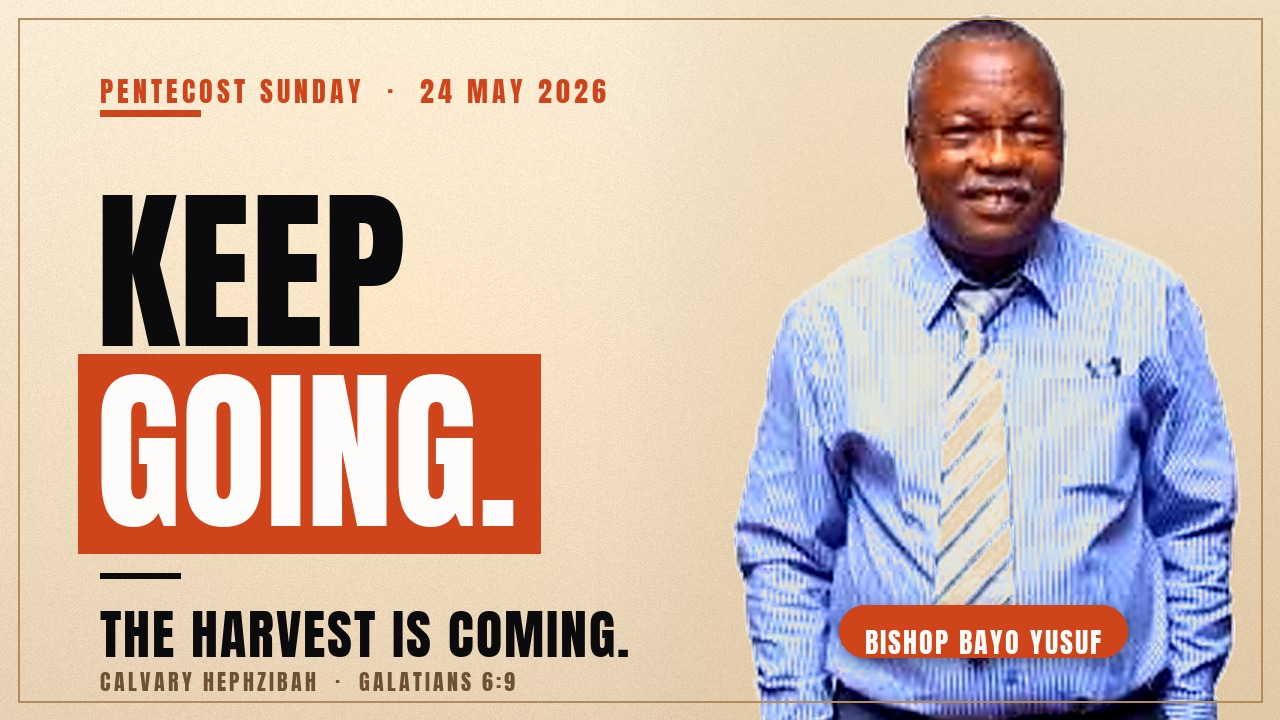
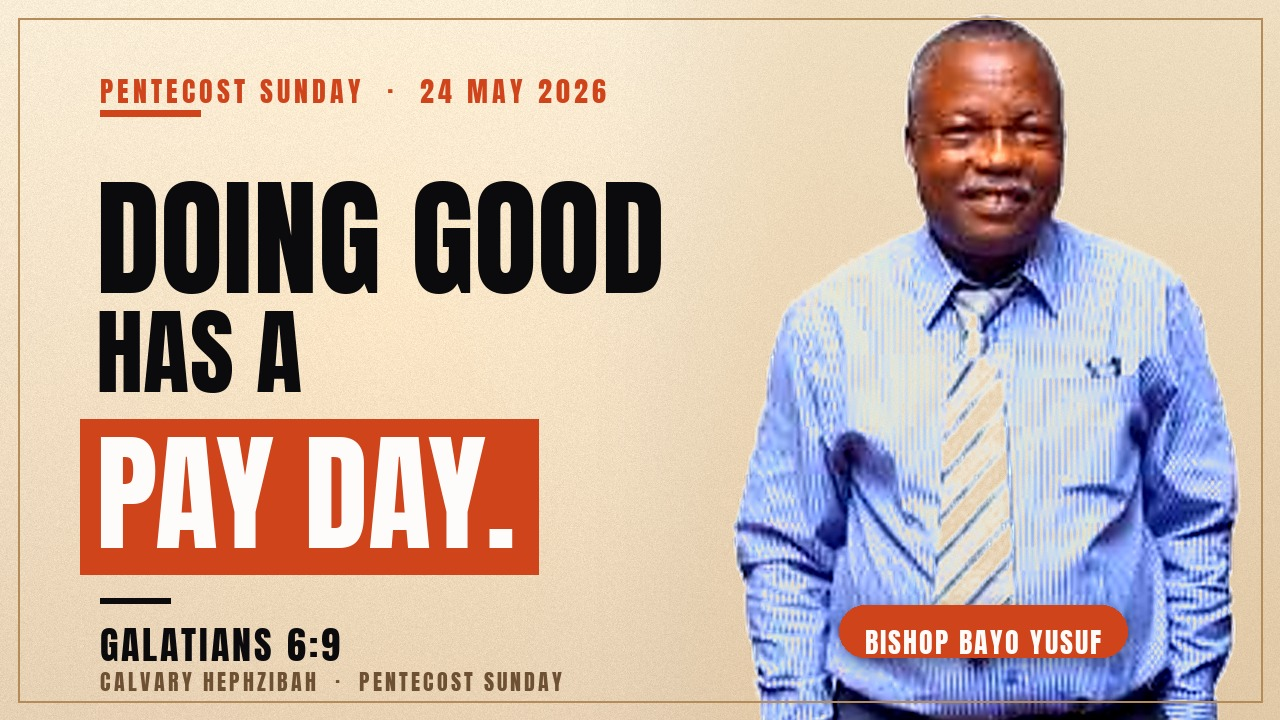
24 May 2026: Confirm sermon title 'Doing Good Has A Pay Day' + all OOS names from Pastor Shade

Changed region(s): [[0.0625, 0.2444, 0.5312, 0.9778]]

diff --git a/media-briefing-24-may-2026.html b/media-briefing-24-may-2026.html
@@ -5,7 +5,7 @@
     <meta name="viewport" content="width=device-width, initial-scale=1.0, viewport-fit=cover">
     <title>Calvary Service Run Sheet – 24th May 2026 · Pentecost</title>
     <meta property="og:title" content="Calvary Service Run Sheet – 24th May 2026 · Pentecost Sunday">
-    <meta property="og:description" content="Sunday 24th May 2026 | Pentecost · Keep Going: The Harvest Is Coming | Bishop Bayo Yusuf | Calvary Hephzibah">
+    <meta property="og:description" content="Sunday 24th May 2026 | Pentecost · Doing Good Has A Pay Day | Bishop Bayo Yusuf | Calvary Hephzibah">
     <meta property="og:image" content="https://calvaryhfgc.github.io/calvaryhephzibah/sermon-thumbnail-24-may-2026.jpg">
     <meta property="og:image:width" content="1280">
     <meta property="og:image:height" content="720">
@@ -152,7 +152,7 @@
         <div class="hero-eyebrow">🔥 Pentecost Sunday</div>
         <div class="hero-date">Sunday, 24th May 2026</div>
         <h1 class="hero-title">Calvary Hephzibah</h1>
-        <p class="hero-sub">Keep Going: The Harvest Is Coming — Bishop Bayo Yusuf</p>
+        <p class="hero-sub">Doing Good Has A Pay Day — Bishop Bayo Yusuf</p>
     </div>
 </div>
 
@@ -174,15 +174,15 @@
             <div class="cb">
                 <div class="sbadge sb-all">👁 Everyone</div>
                 <div class="svc-list">
-                    <div class="svc-row"><div class="svc-num">1</div><div class="svc-info"><div class="svc-name">Welcome &amp; Opening Scripture (Holy Spirit)</div><div class="svc-person">Pastor Shade Olatoye</div></div></div>
-                    <div class="svc-row"><div class="svc-num">2</div><div class="svc-info"><div class="svc-name">Opening Prayer</div><div class="svc-person">TBC</div></div></div>
+                    <div class="svc-row"><div class="svc-num">1</div><div class="svc-info"><div class="svc-name">Welcome &amp; Bible Reading</div><div class="svc-person">Pastor Shade Olatoye</div></div></div>
+                    <div class="svc-row"><div class="svc-num">2</div><div class="svc-info"><div class="svc-name">Opening Prayer</div><div class="svc-person">Sister Lisa</div></div></div>
                     <div class="svc-row"><div class="svc-num">3</div><div class="svc-info"><div class="svc-name">Worship</div><div class="svc-person">Worship Team 🎶 · Uncle Caster leading</div></div></div>
-                    <div class="svc-row"><div class="svc-num">4</div><div class="svc-info"><div class="svc-name">Communion</div><div class="svc-person">TBC</div></div></div>
+                    <div class="svc-row"><div class="svc-num">4</div><div class="svc-info"><div class="svc-name">Communion</div><div class="svc-person">Pastor Shade Olatoye</div></div></div>
                     <div class="svc-row"><div class="svc-num">5</div><div class="svc-info"><div class="svc-name">Announcements</div><div class="svc-person">Pastor Kayode Ogungbenro</div></div></div>
                     <div class="svc-row hl"><div class="svc-num">📖</div><div class="svc-info"><div class="svc-name">Bible Reading — Galatians 6:9</div><div class="svc-person">TBC</div></div></div>
-                    <div class="svc-row ser"><div class="svc-num">🎤</div><div class="svc-info"><div class="svc-name">Keep Going: The Harvest Is Coming</div><div class="svc-person">Bishop Bayo Yusuf</div></div></div>
-                    <div class="svc-row"><div class="svc-num">8</div><div class="svc-info"><div class="svc-name">Closing Prayer</div><div class="svc-person">TBC</div></div></div>
-                    <div class="svc-row"><div class="svc-num">9</div><div class="svc-info"><div class="svc-name">Benediction</div><div class="svc-person">TBC</div></div></div>
+                    <div class="svc-row ser"><div class="svc-num">🎤</div><div class="svc-info"><div class="svc-name">Doing Good Has A Pay Day</div><div class="svc-person">Bishop Bayo Yusuf</div></div></div>
+                    <div class="svc-row"><div class="svc-num">8</div><div class="svc-info"><div class="svc-name">Closing Prayer</div><div class="svc-person">Sister Petty</div></div></div>
+                    <div class="svc-row"><div class="svc-num">9</div><div class="svc-info"><div class="svc-name">Benediction</div><div class="svc-person">Mummy Oso</div></div></div>
                 </div>
             </div>
         </div>
@@ -245,7 +245,6 @@
             <div class="sc-ref">Galatians 6:9 (NIV)</div>
             <div class="sc-text">"Let us not become weary in doing good, for at the proper time we will reap a harvest if we do not give up."</div>
             <p style="margin-top:10px;font-size:12px;color:rgba(255,255,255,0.45);">📺 Display on screen as the reader reads — pushed live from the Control Room.</p>
-            <p style="margin-top:8px;font-size:12px;color:rgba(255,255,255,0.55);"><strong>Note:</strong> Pastor Shade may also open the service with a separate Holy Spirit scripture — reference TBC.</p>
         </div>
     </div>
 
@@ -254,9 +253,9 @@
         <div class="serm-card">
             <div class="sbadge" style="background:rgba(255,255,255,0.08);color:rgba(255,255,255,0.75);">🎥 Media &amp; Leaders</div>
             <div class="serm-preacher">Bishop Bayo Yusuf <span style="opacity:0.5;font-weight:500;">· Guest Preacher</span></div>
-            <h3 class="serm-title">Keep Going: The Harvest Is Coming</h3>
+            <h3 class="serm-title">Doing Good Has A Pay Day</h3>
             <div style="font-size:13px;color:rgba(255,255,255,0.6);margin-bottom:14px;">Galatians 6:9</div>
-            <img src="https://calvaryhfgc.github.io/calvaryhephzibah/sermon-thumbnail-24-may-2026.jpg" alt="Bishop Bayo Yusuf — Keep Going: The Harvest Is Coming" class="serm-thumb">
+            <img src="https://calvaryhfgc.github.io/calvaryhephzibah/sermon-thumbnail-24-may-2026.jpg" alt="Bishop Bayo Yusuf — Doing Good Has A Pay Day" class="serm-thumb">
             <div class="serm-note"><span>💡</span><span>Display sermon thumbnail for 30 seconds as Bishop Bayo Yusuf comes up to preach.</span></div>
         </div>
     </div>
@@ -306,7 +305,7 @@
                     <div class="chk-row" onclick="tick(this)"><div class="chk-box"></div><div class="chk-label">All songs loaded into Control Room set list (admin)</div></div>
                     <div class="chk-row" onclick="tick(this)"><div class="chk-box"></div><div class="chk-label">Control Room operator app open &amp; signed in (lyrics/scripture)</div></div>
                     <div class="chk-row" onclick="tick(this)"><div class="chk-box"></div><div class="chk-label">OBS overlay browser source verified — slides pushing live</div></div>
-                    <div class="chk-row" onclick="tick(this)"><div class="chk-box"></div><div class="chk-label">Sermon thumbnail ready ✅ (Bishop Bayo Yusuf · Keep Going: The Harvest Is Coming)</div></div>
+                    <div class="chk-row" onclick="tick(this)"><div class="chk-box"></div><div class="chk-label">Sermon thumbnail ready ✅ (Bishop Bayo Yusuf · Doing Good Has A Pay Day)</div></div>
                     <div class="chk-row" onclick="tick(this)"><div class="chk-box"></div><div class="chk-label">Screen layouts tested before service</div></div>
                 </div>
             </div>
